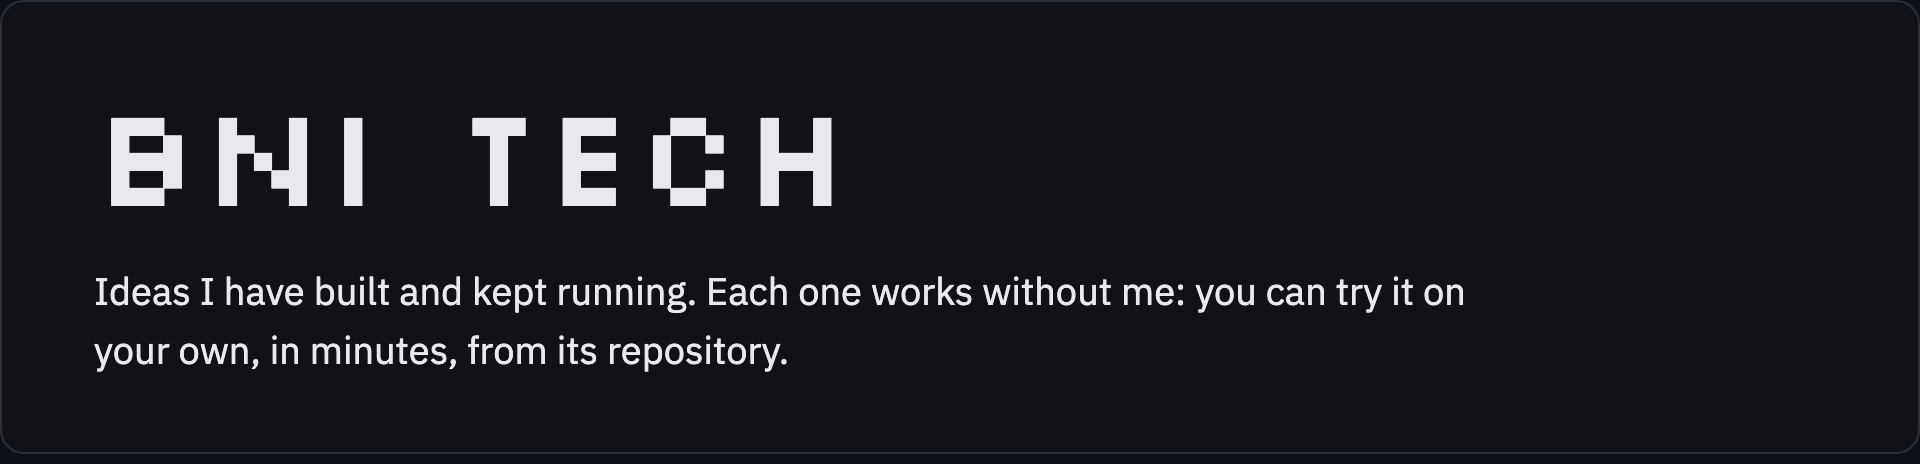
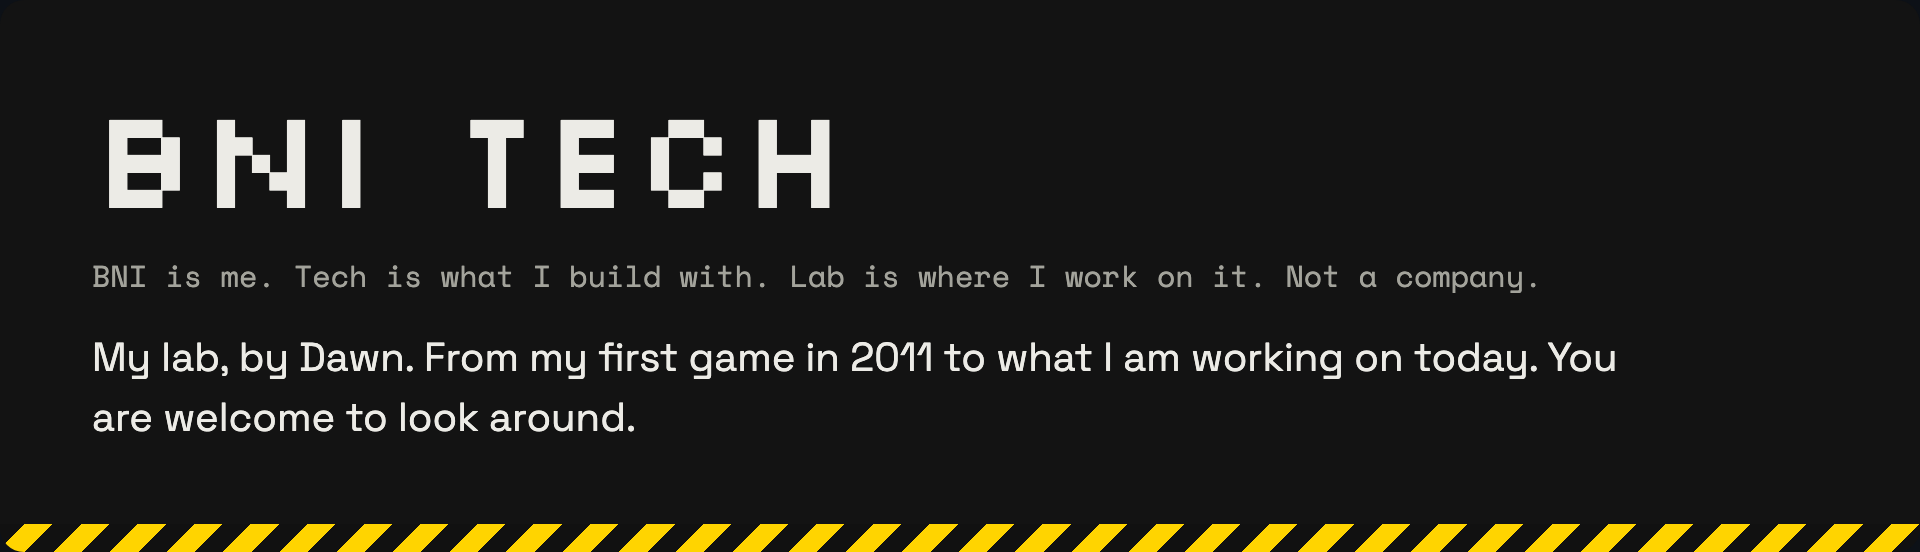
[claude] feat: the organization profile becomes a front door to the lab
The banner takes the lab page's wording and look (Silkscreen, Space Grotesk and
Space Mono on grey paper, a black and yellow stripe). Try one and the by-year
picture are gone with the page's old purpose; six links walk into the page's
topics instead, and the games table stays. Nothing in it is a count, so it does
not go stale as the page grows.

diff --git a/tools/make_images.py b/tools/make_images.py
@@ -1,72 +1,45 @@
-"""Draw the banner and the by-year picture for the BNI Tech organization page.
+"""Draw the banner for the BNI Tech organization page.
 
-Writes profile/assets/{banner,timeline}-{light,dark}.html and renders each to a
-PNG at 2x with headless Chrome, which loads the site's fonts (Silkscreen and
-IBM Plex) from Google Fonts. Edit ERAS when an idea is marked public on the
-site, then run:  python3 tools/make_images.py
+Writes profile/assets/banner-{light,dark}.html and renders each to a PNG at 2x
+with headless Chrome, which loads the site's fonts (Silkscreen, Space Grotesk,
+Space Mono) from Google Fonts. The banner holds no counts or dates, so it only
+needs redrawing when the site's wording or look changes:  python3 tools/make_images.py
 """
 import os, subprocess
 HERE = os.path.dirname(os.path.abspath(__file__))
 OUT = os.path.join(HERE, "..", "profile", "assets")
 CHROME = "/Applications/Google Chrome.app/Contents/MacOS/Google Chrome"
-FONTS = ('<link href="https://fonts.googleapis.com/css2?family=Silkscreen&family=IBM+Plex+Sans:wght@400;500;600'
-         '&family=IBM+Plex+Mono:wght@400;500&display=swap" rel="stylesheet">')
-THEMES = {  # the site's own palette
-    "light": dict(gh="#ffffff", paper="#f4f5f7", surface="#ffffff", ink="#16181d", muted="#5a6070",
-                  rule="#d9dce3", accent="#2a46c9", soft="#e6eafb"),
-    "dark": dict(gh="#0d1117", paper="#101217", surface="#171a21", ink="#e7e9ef", muted="#9aa1b2",
-                 rule="#2a2f3a", accent="#93a6ff", soft="#1f2640"),
+FONTS = ('<link href="https://fonts.googleapis.com/css2?family=Silkscreen&family=Space+Grotesk:wght@400;500'
+         '&family=Space+Mono:wght@400;700&display=swap" rel="stylesheet">')
+THEMES = {  # the site's own palette (page.html); gh is GitHub's page colour behind the image
+    "light": dict(gh="#ffffff", paper="#e8e8e4", ink="#111111", muted="#55554f"),
+    "dark": dict(gh="#0d1117", paper="#131313", ink="#ecebe6", muted="#a3a39b"),
 }
-ERAS = [  # (years, title, [(name, label, kind)]) kind: try | code | none
-    ("2011–2017", "Games, one per language I learned", [
-        ("BLUE DICE GAME", "2011", "code"), ("Mukbo DB", "2011", "code"), ("Rolly Poly", "2011", "code"),
-        ("Teris", "2011", "code"), ("Space Shooter", "2012", "code"), ("PackMan plus", "2012", "code"),
-        ("Angry Pokemons", "2014", "code"), ("WarmyLand", "2015", "code"), ("3D Maze", "2016", "code"),
-        ("CrashTower", "2017", "code")]),
-    ("2019–2021", "Web and backend", [("Nexon Dabang M", "2019", "code"), ("Excel download", "2020", "code"),
-                                    ("Docs from tests", "2021", "code")]),
-    ("2026", "AI tools", [("Team AI workflow", "2026", "none"), ("Persona debate lab", "try it", "try"),
-                          ("Vancouver room hunt", "try it", "try"), ("AI trend digest", "try it", "try"),
-                          ("AI news service", "idea", "none")]),
-]
-BASE = """body{{margin:0;background:{gh}}}.p{{box-sizing:border-box;width:960px;background:{paper};border:1px solid {rule};
-border-radius:12px;padding:40px 46px 36px;font-family:'IBM Plex Sans',sans-serif;color:{ink}}}"""
+YELLOW = "#ffd400"
+LINE = "BNI is me. Tech is what I build with. Lab is where I work on it. Not a company."
+INTRO = "My lab, by Dawn. From my first game in 2011 to what I am working on today. You are welcome to look around."
+
 
 def banner(c):
-    css = BASE.format(**c) + f"""h1{{font-family:Silkscreen;font-weight:400;font-size:70px;line-height:1;margin:0;letter-spacing:.02em}}
-.i{{font-size:19px;margin:20px 0 0;max-width:62ch;line-height:1.55}}.l{{font-family:'IBM Plex Mono';font-size:15px;color:{c['accent']};margin:16px 0 0}}"""
-    body = ('<h1>BNI TECH</h1><p class="i">Ideas I have built and kept running. Each one works without me: '
-            'you can try it on your own, in minutes, from its repository.</p>')
+    css = f"""body{{margin:0;background:{c['gh']}}}
+.p{{box-sizing:border-box;width:960px;min-height:100vh;display:flex;flex-direction:column;justify-content:space-between;background:{c['paper']};border-radius:12px;overflow:hidden;color:{c['ink']}}}
+.in{{padding:42px 46px 0;display:flex;flex-direction:column;gap:14px}}
+h1{{font-family:Silkscreen,monospace;font-weight:400;font-size:70px;line-height:1;margin:0;letter-spacing:.02em}}
+.l{{font-family:'Space Mono',monospace;font-size:15px;line-height:1.6;color:{c['muted']};margin:0}}
+.i{{font-family:'Space Grotesk',sans-serif;font-size:20px;line-height:1.5;margin:0;max-width:62ch}}
+.s{{height:14px;margin-top:30px;background:repeating-linear-gradient(-45deg,#111111 0 10px,{YELLOW} 10px 20px)}}"""
+    body = f'<div class="in"><h1>BNI TECH</h1><p class="l">{LINE}</p><p class="i">{INTRO}</p></div><div class="s"></div>'
     return css, body
 
-def timeline(c):
-    css = BASE.format(**c) + f"""h2{{font-size:15px;font-weight:600;letter-spacing:.06em;text-transform:uppercase;color:{c['muted']};margin:0 0 22px}}
-.eras{{display:grid;grid-template-columns:2fr 1fr 1.15fr;gap:26px}}.y{{font-family:'IBM Plex Mono';font-weight:500;color:{c['accent']};font-size:15px}}
-.bar{{height:6px;border-radius:3px;background:{c['accent']};margin:8px 0 12px}}.t{{font-weight:600;font-size:16px;margin:0 0 12px}}
-.chips{{display:grid;gap:8px}}.two{{grid-template-columns:1fr 1fr}}.c{{display:flex;justify-content:space-between;align-items:center;
-border:1px solid {c['rule']};background:{c['surface']};border-radius:6px;padding:6px 11px;font-size:14.5px;font-weight:500}}
-.c span{{font-family:'IBM Plex Mono';font-size:12px;color:{c['muted']};font-weight:400}}.none{{border-style:dashed;color:{c['muted']};font-weight:400;background:transparent}}
-.try{{background:{c['soft']};border-color:{c['accent']}}}.try span{{color:{c['accent']};font-weight:500}}
-.k{{font-family:'IBM Plex Mono';font-size:12.5px;color:{c['muted']};margin:20px 0 0}}"""
-    cols = []
-    for years, title, items in ERAS:
-        chips = "".join(f'<div class="c {"" if k == "code" else k}">{n}<span>{lab}</span></div>' for n, lab, k in items)
-        two = " two" if len(items) > 6 else ""
-        cols.append(f'<div><div class="y">{years}</div><div class="bar"></div><p class="t">{title}</p>'
-                    f'<div class="chips{two}">{chips}</div></div>')
-    body = (f'<h2>Ideas by the year they started</h2><div class="eras">{"".join(cols)}</div>'
-            '<p class="k">blue: try it yourself in minutes · solid: public code · dashed: no public code</p>')
-    return css, body
 
-for name, fn, height in (("banner", banner, 232), ("timeline", timeline, 440)):
-    for theme, c in THEMES.items():
-        css, body = fn(c)
-        html = os.path.join(OUT, f"{name}-{theme}.html")
-        with open(html, "w", encoding="utf-8") as f:
-            f.write(f"<html><head>{FONTS}<style>{css}</style></head><body><div class='p'>{body}</div></body></html>")
-        png = os.path.join(OUT, f"{name}-{theme}.png")
-        subprocess.run([CHROME, "--headless=new", "--disable-gpu", "--hide-scrollbars", "--virtual-time-budget=6000",
-                        "--force-device-scale-factor=2", f"--window-size=960,{height}", f"--screenshot={png}",
-                        "file://" + os.path.abspath(html)], check=True, capture_output=True)
-        os.remove(html)
-        print(png)
+for theme, c in THEMES.items():
+    css, body = banner(c)
+    html = os.path.join(OUT, f"banner-{theme}.html")
+    with open(html, "w", encoding="utf-8") as f:
+        f.write(f"<html><head>{FONTS}<style>{css}</style></head><body><div class='p'>{body}</div></body></html>")
+    png = os.path.join(OUT, f"banner-{theme}.png")
+    subprocess.run([CHROME, "--headless=new", "--disable-gpu", "--hide-scrollbars", "--virtual-time-budget=6000",
+                    "--force-device-scale-factor=2", "--window-size=960,276", f"--screenshot={png}",
+                    "file://" + os.path.abspath(html)], check=True, capture_output=True)
+    os.remove(html)
+    print(png)

diff --git a/profile/README.md b/profile/README.md
@@ -1,38 +1,44 @@
 <picture>
   <source media="(prefers-color-scheme: dark)" srcset="assets/banner-dark.png">
-  <img src="assets/banner-light.png" width="100%" alt="BNI TECH. Ideas I have built and kept running. Each one works without me: you can try it on your own, in minutes, from its repository.">
-  </picture>
+  <img src="assets/banner-light.png" width="100%" alt="BNI TECH. BNI is me. Tech is what I build with. Lab is where I work on it. Not a company. My lab, by Dawn. From my first game in 2011 to what I am working on today. You are welcome to look around.">
+</picture>
 
-**[bnitech-lab.github.io →](https://bnitech-lab.github.io)** · by [Dawn](https://github.com/bnivibe)
+**[Open the lab: bnitech-lab.github.io →](https://bnitech-lab.github.io)** · by [Dawn](https://github.com/bnivibe)
 
-### Try one
+### Walk in by topic
 
 <table>
   <tr>
     <td width="33%" valign="top">
-      <b><a href="https://github.com/bnivibe/persona-debate-lab">Persona debate lab</a></b><br>
-      <sub>For anyone who uses Claude Code to think a decision through from several sides.<br>
-      <b>about 10 min</b> · Claude Code skill</sub>
+      <b><a href="https://bnitech-lab.github.io/#topic=ai">AI tools →</a></b><br>
+      <sub>Claude Code skills, mods and the agents I run every day</sub>
     </td>
     <td width="33%" valign="top">
-      <b><a href="https://github.com/bnivibe/vancouver-room-hunt">Vancouver room hunt</a></b><br>
-      <sub>For newcomers looking for a room share in Vancouver or elsewhere in BC.<br>
-      <b>about 15 min</b> · Claude Code skill</sub>
+      <b><a href="https://bnitech-lab.github.io/#topic=web">Web and backend →</a></b><br>
+      <sub>Sites, APIs and services, from school to work</sub>
     </td>
     <td width="33%" valign="top">
-      <b><a href="https://github.com/bnivibe/ai-trend-digest">AI trend digest</a></b><br>
-      <sub>For developers who want five AI topics a day instead of five feeds.<br>
-      <b>about 5 min</b> · Python</sub>
+      <b><a href="https://bnitech-lab.github.io/#topic=apps">Apps →</a></b><br>
+      <sub>Desktop, mobile and command-line tools</sub>
+    </td>
+  </tr>
+  <tr>
+    <td width="33%" valign="top">
+      <b><a href="https://bnitech-lab.github.io/#topic=games">Games →</a></b><br>
+      <sub>One game per language I learned, and more</sub>
+    </td>
+    <td width="33%" valign="top">
+      <b><a href="https://bnitech-lab.github.io/#topic=study">Study →</a></b><br>
+      <sub>Lectures, notes, study plans and practice</sub>
+    </td>
+    <td width="33%" valign="top">
+      <b><a href="https://bnitech-lab.github.io/#topic=life">Life →</a></b><br>
+      <sub>Plans, events and records that are not software</sub>
     </td>
   </tr>
 </table>
 
-<picture>
-  <source media="(prefers-color-scheme: dark)" srcset="assets/timeline-dark.png">
-  <img src="assets/timeline-light.png" width="100%" alt="Ideas by the year they started. 2011 to 2017, games, one per language I learned: BLUE DICE GAME, Mukbo DB, Rolly Poly, Teris, Space Shooter, PackMan plus, Angry Pokemons, WarmyLand, 3D Maze, CrashTower. 2019 to 2021, web and backend: Nexon Dabang M, Excel download module, Docs from tests. 2026, AI tools: Team AI workflow, Persona debate lab, Vancouver room hunt and AI trend digest (all three can be tried in minutes), and AI news service (an idea).">
-</picture>
-
-### The games, 2011–2017
+### Code in this organization: the games, 2011 to 2017
 
 | Year | Game | Built with | Stage |
 |---|---|---|---|
@@ -44,5 +50,3 @@
 | 2014 | [Angry Pokemons](https://github.com/bnitech-lab/angry-pokemons-2014) | Java, Android | Finished |
 | 2016 | [3D Maze](https://github.com/bnitech-lab/maze-3d-2016) | C++, OpenGL | Finished |
 | 2017 | [CrashTower](https://github.com/bnitech-lab/crash-tower-2017) | Java, Android | Stopped mid-build |
-
-<sub>BNI Tech is the name I put on my first games in 2011. It is not a company.</sub>

diff --git a/README.md b/README.md
@@ -2,10 +2,10 @@
 
 The BNI Tech organization profile shown at [github.com/bnitech-lab](https://github.com/bnitech-lab).
 
-- `profile/README.md` is the profile itself.
-- `profile/assets/` holds the banner and the by-year picture, light and dark. They are drawn in the
-  fonts of [bnitech-lab.github.io](https://bnitech-lab.github.io) (Silkscreen and IBM Plex), because
-  GitHub does not load web fonts in a README.
-- `tools/make_images.py` redraws both pictures. It needs Google Chrome, which loads the fonts from
-  Google Fonts. When an idea is marked public on the page, edit `ERAS` in the script and run
-  `python3 tools/make_images.py`.
+- `profile/README.md` is the profile itself: a front door to [bnitech-lab.github.io](https://bnitech-lab.github.io),
+  my lab page. It links the page's six topics (`#topic=<key>`) and lists the games whose code lives in this
+  organization. It holds no counts, so it does not go out of date when the page grows.
+- `profile/assets/` holds the banner, light and dark. It is drawn in the page's fonts (Silkscreen, Space Grotesk
+  and Space Mono) and colours, because GitHub does not load web fonts or CSS in a README.
+- `tools/make_images.py` redraws the banner. It needs Google Chrome, which loads the fonts from Google Fonts. Run
+  `python3 tools/make_images.py` when the page's wording or look changes.
